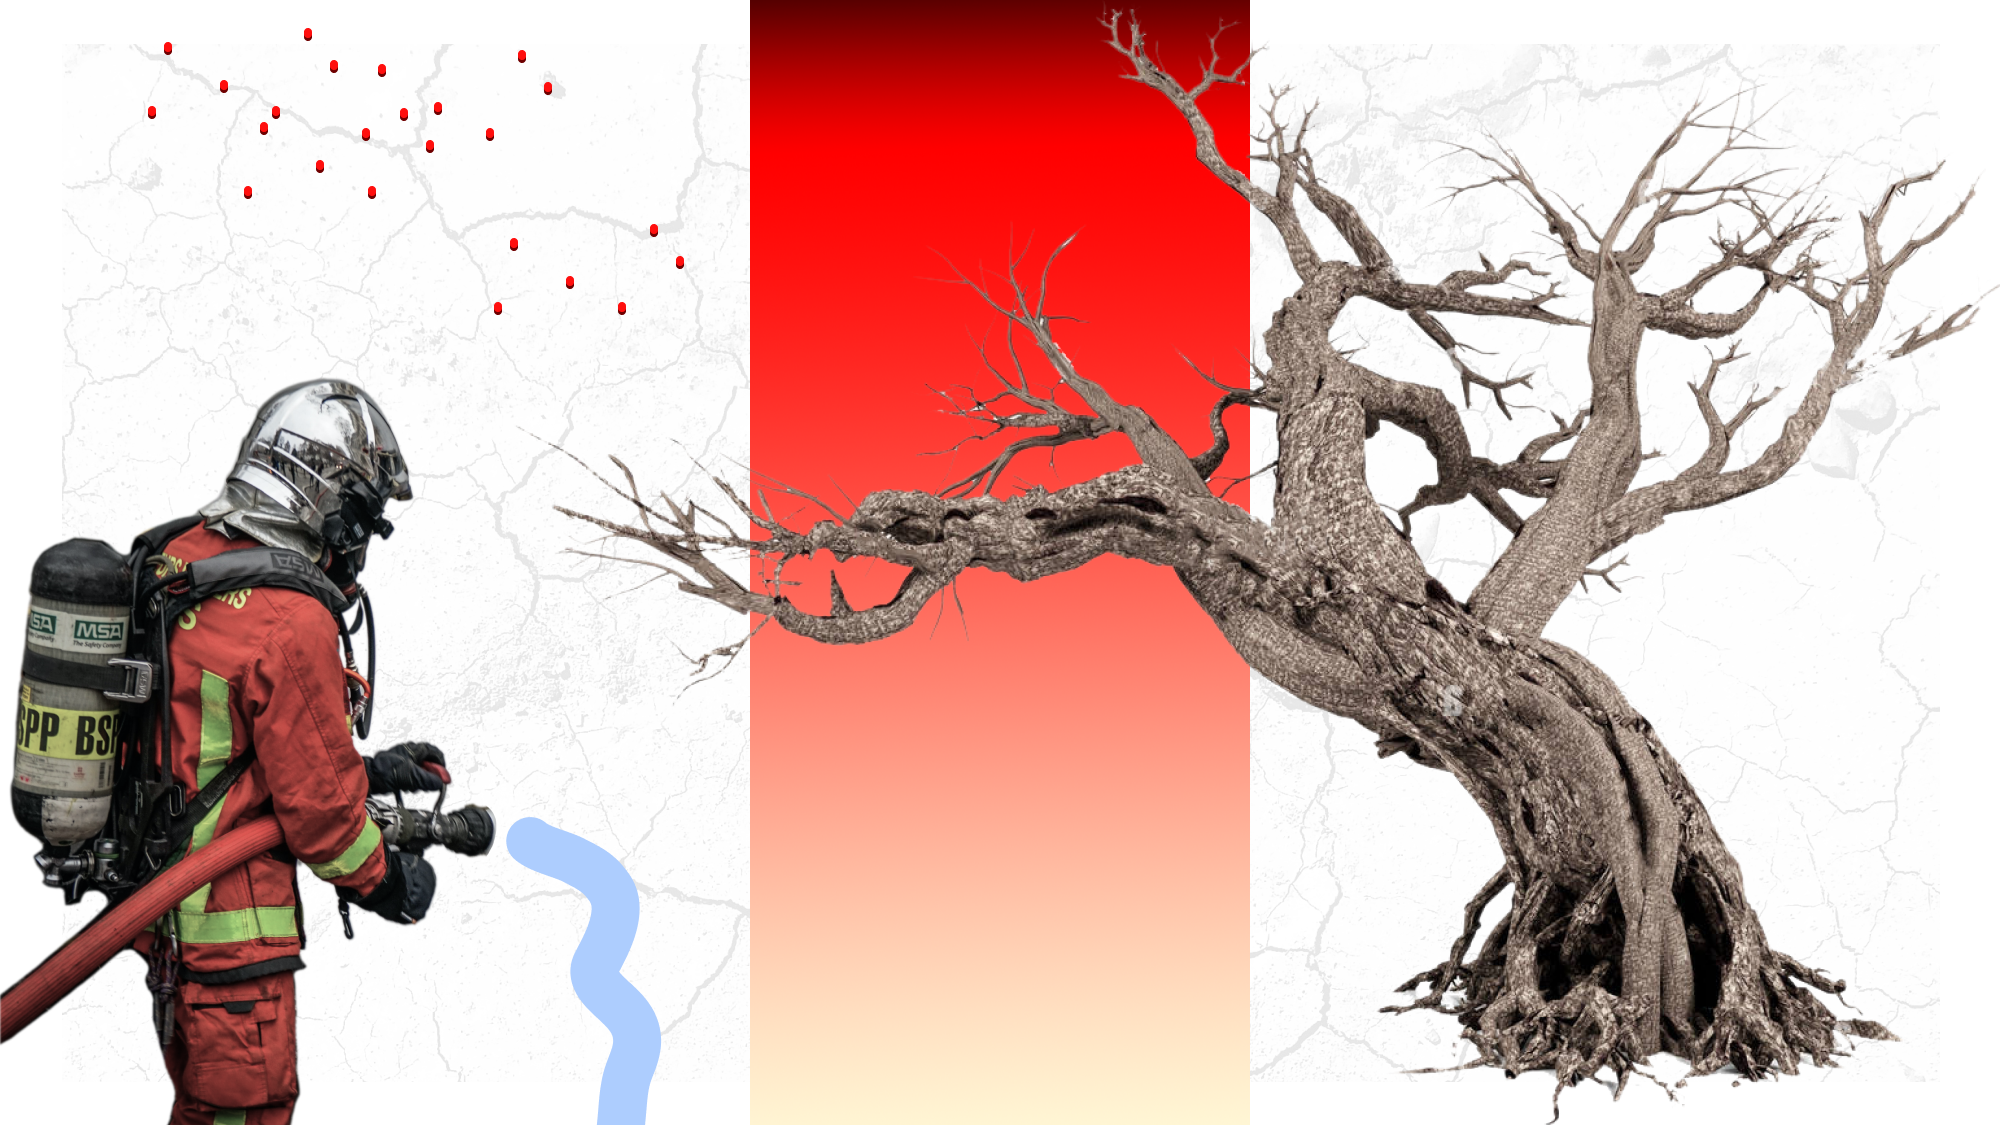
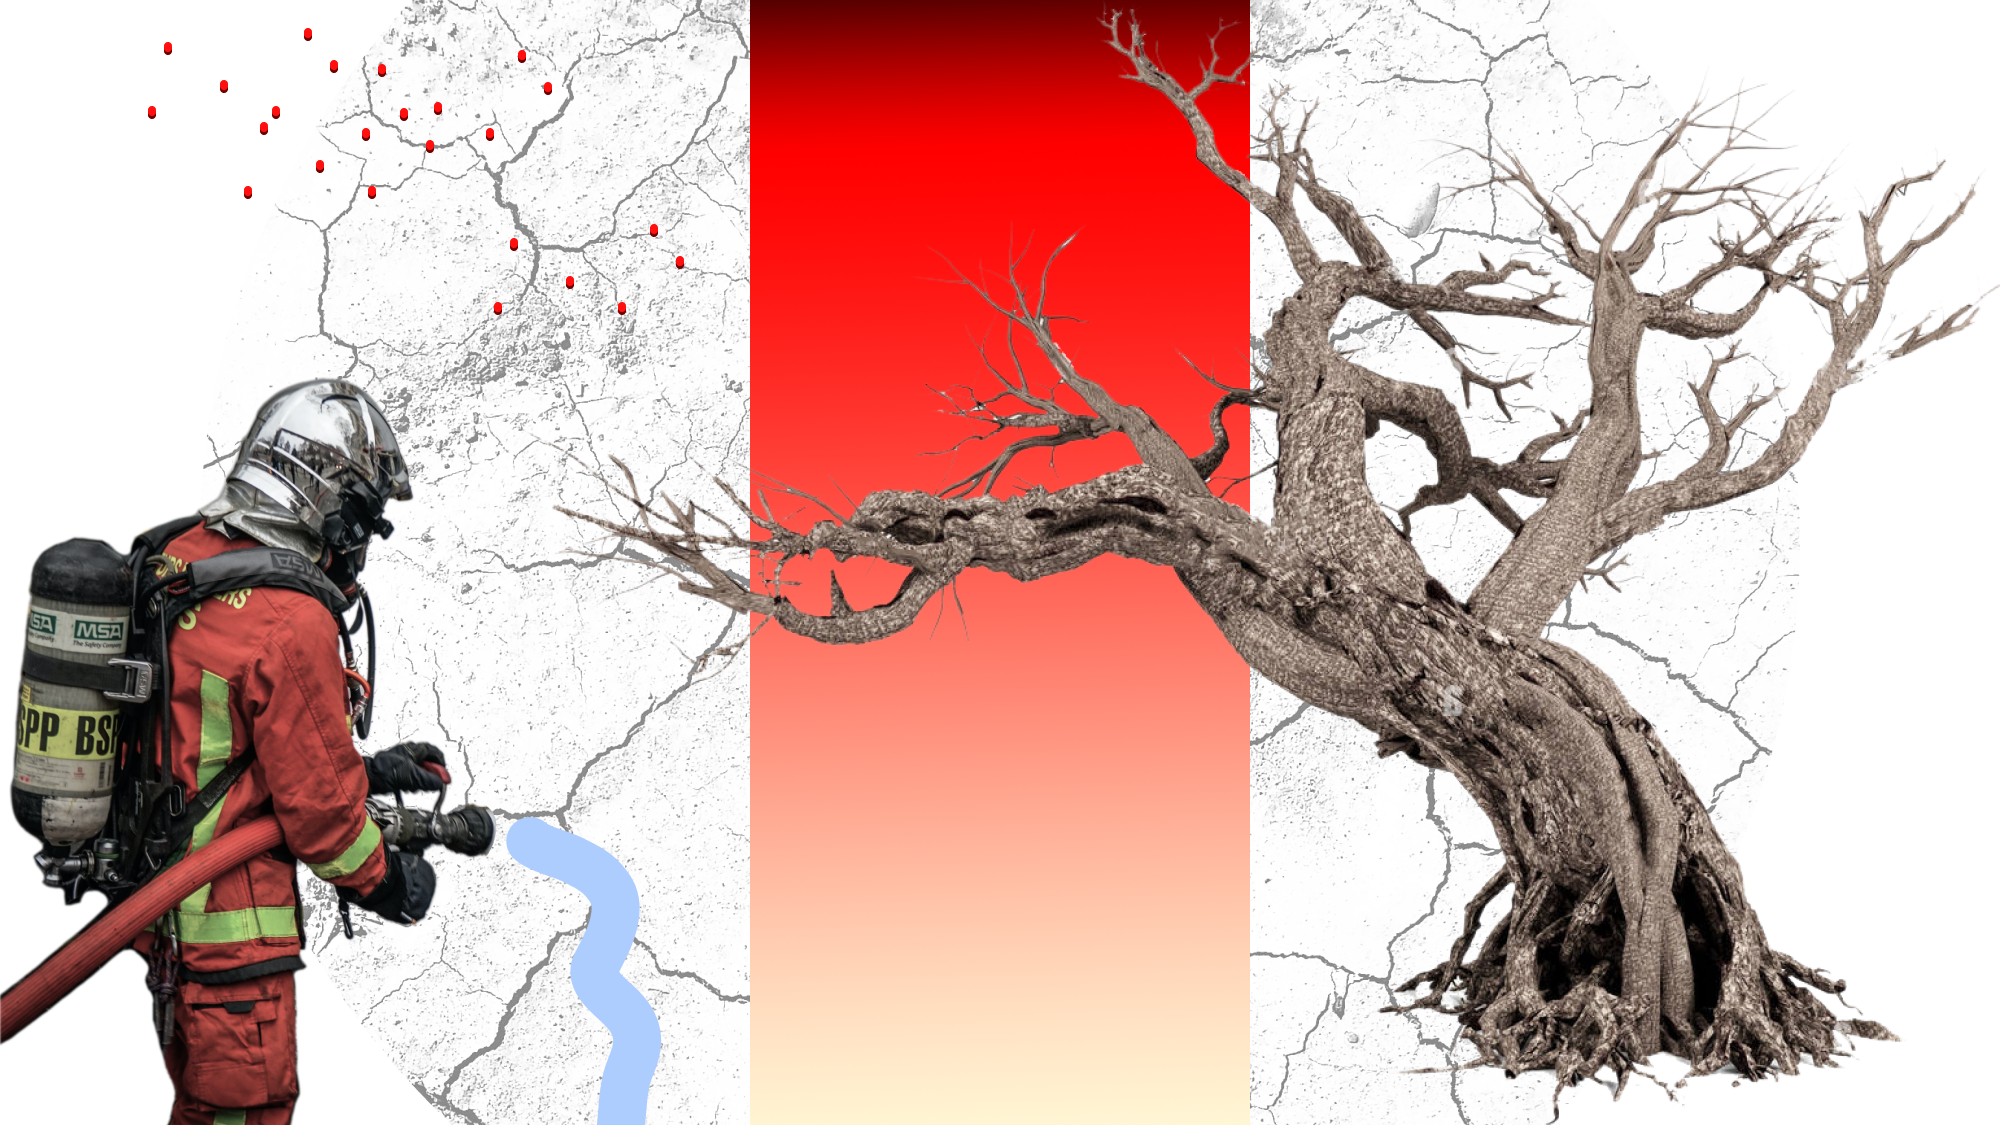
illustrations

diff --git a/map_config.js b/map_config.js
@@ -131,7 +131,7 @@ var config = {
       title: "",
 
       // pictures are loaded from the assets folder
-      image: "./assets/melons2.png",
+      image: "./assets/1_illustration.png",
       description: "",
       location: {
         center: [13.0567, 52.3888],
